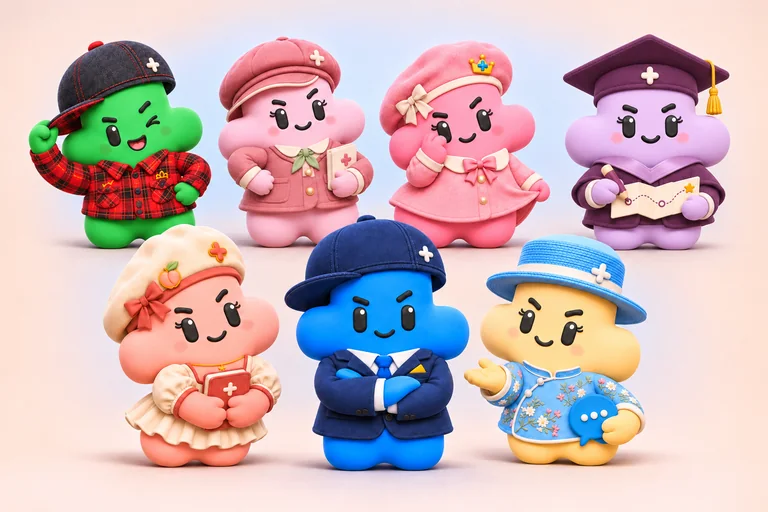
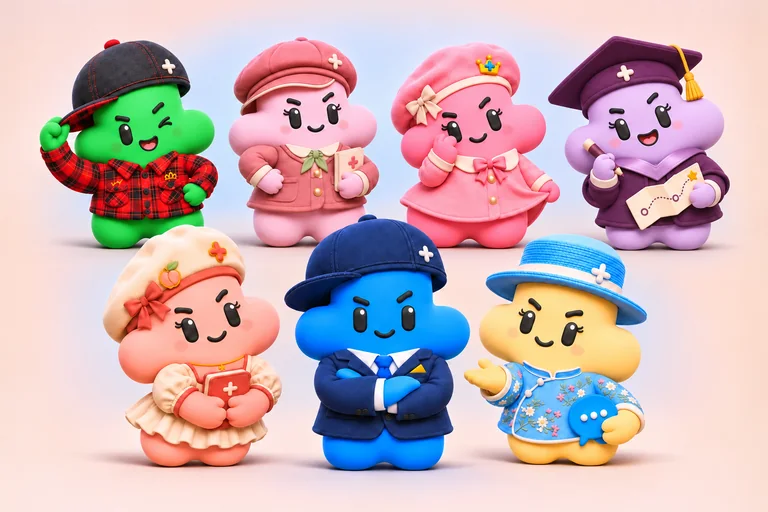
Polish Binh An profile and Writing trial layout

diff --git a/index.html b/index.html
@@ -36,13 +36,13 @@
 <link rel="stylesheet" href="assets/modern/family-20261102.css?v=2-photo">
 <link rel="stylesheet" href="assets/speaking/profiles.css?v=20261103">
 <link rel="stylesheet" href="assets/speaking/schedule.css?v=20261103">
-<link rel="stylesheet" href="assets/layout-family.css?v=20261106">
+<link rel="stylesheet" href="assets/layout-family.css?v=20261106-recordings">
 <link rel="stylesheet" href="assets/layout-teachers.css?v=20261103">
 <link rel="stylesheet" href="assets/layout-schedule.css?v=20261103">
 <link rel="stylesheet" href="assets/unify-speaking.css?v=20261103">
 <link rel="stylesheet" href="assets/add-speak-benefits.css?v=20261103">
 <link rel="stylesheet" href="assets/speaking-finish.css?v=20261103">
-<link rel="stylesheet" href="assets/bee-card-colors.css?v=20261106">
+<link rel="stylesheet" href="assets/bee-card-colors.css?v=20261106-binh-an-layout">
 <link rel="stylesheet" href="assets/hof-unified.css?v=20261103-gold">
 <link rel="stylesheet" href="assets/faq-registration.css?v=20261103">
 </head>
@@ -86,9 +86,9 @@
 <h2 class="family-kicker">Đại gia đình Bee</h2>
 <div class="family-stage">
 <div id="beeWorld" class="family-photo-world">
-  <figure class="family-photo-frame"><img class="family-portrait" src="assets/modern/family/portrait-seven.webp" srcset="assets/modern/family/portrait-seven-768.webp 768w, assets/modern/family/portrait-seven.webp 1536w" sizes="(max-width: 670px) calc(100vw - 40px), 632px" width="1536" height="1024" fetchpriority="high" decoding="async" alt="Bảy thành viên đại gia đình Bee gồm Gia Khang, Cici, Tuệ Nhi, Pu, Hồ Bách, Kem và Bình An. Cô Bình An đội mũ tốt nghiệp màu tím ở góc trên bên phải."></figure>
-  <svg class="family-leaders" viewBox="0 0 768 512" aria-hidden="true"><path class="family-key-khang" d="M -30 190 H 13 L 49 143" vector-effect="non-scaling-stroke"/><path class="family-key-cici" d="M -30 67 H 17 L 54 23 H 228 L 247 58" vector-effect="non-scaling-stroke"/><path class="family-key-nhi" d="M 798 218 H 754 L 731 253 H 564 L 532 221" vector-effect="non-scaling-stroke"/><path class="family-key-pu" d="M -30 404 H 70 L 122 350" vector-effect="non-scaling-stroke"/><path class="family-key-bach" d="M 798 450 H 735 L 707 483 H 472 L 432 452" vector-effect="non-scaling-stroke"/><path class="family-key-quynh" d="M 798 334 H 705 L 632 350" vector-effect="non-scaling-stroke"/><path class="family-key-binh-an" d="M 798 91 H 750 L 712 79" vector-effect="non-scaling-stroke"/></svg>
-  <div class="family-pins" aria-hidden="true"><span class="family-pin family-key-khang" style="--pin-x:6.38%;--pin-y:27.93%">1</span><span class="family-pin family-key-cici" style="--pin-x:32.16%;--pin-y:11.33%">2</span><span class="family-pin family-key-nhi" style="--pin-x:69.27%;--pin-y:43.16%">3</span><span class="family-pin family-key-pu" style="--pin-x:15.89%;--pin-y:68.36%">4</span><span class="family-pin family-key-bach" style="--pin-x:56.25%;--pin-y:88.28%">5</span><span class="family-pin family-key-quynh" style="--pin-x:82.29%;--pin-y:68.36%">6</span><span class="family-pin family-key-binh-an" style="--pin-x:92.71%;--pin-y:15.43%">7</span></div>
+  <figure class="family-photo-frame"><img class="family-portrait" src="assets/modern/family/portrait-seven.webp?v=pose3" srcset="assets/modern/family/portrait-seven-768.webp?v=pose3 768w, assets/modern/family/portrait-seven.webp?v=pose3 1536w" sizes="(max-width: 670px) calc(100vw - 40px), 632px" width="1536" height="1024" fetchpriority="high" decoding="async" alt="Bảy thành viên đại gia đình Bee gồm Gia Khang, Cici, Tuệ Nhi, Pu, Hồ Bách, Kem và Bình An. Cô Bình An đội mũ tốt nghiệp màu tím, cười và giơ bút ở góc trên bên phải."></figure>
+  <svg class="family-leaders" viewBox="0 0 768 512" aria-hidden="true"><path class="family-key-khang" d="M -30 190 H 13 L 60 143" vector-effect="non-scaling-stroke"/><path class="family-key-cici" d="M -30 67 H 17 L 54 23 H 228 L 260 58" vector-effect="non-scaling-stroke"/><path class="family-key-nhi" d="M 798 218 H 754 L 731 253 H 564 L 542 221" vector-effect="non-scaling-stroke"/><path class="family-key-pu" d="M -30 404 H 70 L 122 350" vector-effect="non-scaling-stroke"/><path class="family-key-bach" d="M 798 450 H 735 L 707 483 H 472 L 432 452" vector-effect="non-scaling-stroke"/><path class="family-key-quynh" d="M 798 334 H 705 L 632 350" vector-effect="non-scaling-stroke"/><path class="family-key-binh-an" d="M 798 91 H 750 L 711 80" vector-effect="non-scaling-stroke"/></svg>
+  <div class="family-pins" aria-hidden="true"><span class="family-pin family-key-khang" style="--pin-x:7.81%;--pin-y:27.93%">1</span><span class="family-pin family-key-cici" style="--pin-x:33.85%;--pin-y:11.33%">2</span><span class="family-pin family-key-nhi" style="--pin-x:70.57%;--pin-y:43.16%">3</span><span class="family-pin family-key-pu" style="--pin-x:15.89%;--pin-y:68.36%">4</span><span class="family-pin family-key-bach" style="--pin-x:56.25%;--pin-y:88.28%">5</span><span class="family-pin family-key-quynh" style="--pin-x:82.29%;--pin-y:68.36%">6</span><span class="family-pin family-key-binh-an" style="--pin-x:92.58%;--pin-y:15.63%">7</span></div>
 </div>
 <div class="family-roster" aria-label="Chú thích thành viên đại gia đình Bee">
 <a class="family-member family-key-khang" href="#teacher-khang"><span class="family-number" aria-hidden="true">1</span><span><strong>Gia Khang</strong><small><span>Overall 8.5</span><span>Writing 8.0</span></small></span></a>
@@ -310,7 +310,7 @@ Xem trực tiếp các bản ghi hình lớp học trước khi đăng ký.
 
 <div class="teacher-grid">
 
-     <div class="teacher-recording-card" data-bee-recording="bach" data-bee-guide-side="right">
+     <div class="teacher-recording-card" data-recording-skill="writing" data-bee-recording="bach" data-bee-guide-side="right">
         <div class="recording-mascot-v4"><img src="assets/modern/bee-bach.webp" alt="Bee Bách · Hồ Bách" loading="lazy"></div>
         <h3>Hồ Bách</h3>
         <p class="aim">Master 7.5 - 8.0+</p>
@@ -320,7 +320,7 @@ Xem trực tiếp các bản ghi hình lớp học trước khi đăng ký.
         </button>
     </div>
 
-    <div class="teacher-recording-card" data-bee-recording="nhi" data-bee-guide-side="left">
+    <div class="teacher-recording-card" data-recording-skill="writing" data-bee-recording="nhi" data-bee-guide-side="left">
         <div class="recording-mascot-v4"><img src="assets/modern/bee-nhi.webp" alt="Bee Nhi · Tuệ Nhi" loading="lazy"></div>
         <h3>Tuệ Nhi</h3>
         <p class="aim">Writing 5.0 → 7.0+</p>
@@ -330,7 +330,7 @@ Xem trực tiếp các bản ghi hình lớp học trước khi đăng ký.
         </button>
     </div>
 
- <div class="teacher-recording-card" data-bee-recording="kane" data-bee-guide-side="left">
+    <div class="teacher-recording-card" data-recording-skill="writing" data-bee-recording="kane" data-bee-guide-side="left">
         <div class="recording-mascot-v4"><img src="assets/modern/bee-khang.webp" alt="Bee Khang · Gia Khang" loading="lazy"></div>
         <h3>Gia Khang</h3>
         <p class="aim">Writing 5.0 → 7.0+</p>
@@ -342,24 +342,25 @@ Xem trực tiếp các bản ghi hình lớp học trước khi đăng ký.
 
 
 
-    <div class="teacher-recording-card recording-pending recording-cici">
+    <div class="teacher-recording-card recording-pending recording-binh-an" data-recording-skill="writing">
+        <div class="recording-mascot-v4"><img src="assets/modern/family/binh-an.webp" alt="" loading="lazy" decoding="async" width="512" height="512"></div>
+        <h3>Bình An</h3>
+        <p class="aim">Writing 5.0–5.5 → 7.0+</p>
+        <button type="button" aria-haspopup="dialog" onclick="document.getElementById('recordingPendingTitle').textContent = 'Lớp học của cô Bình An'; document.getElementById('recordingPending').showModal()">Xem lớp học thực tế</button>
+    </div>
+
+    <div class="teacher-recording-card recording-pending recording-cici" data-recording-skill="speaking">
         <div class="recording-mascot-v4"><img src="assets/modern/family/cici.webp" alt="" loading="lazy" decoding="async"></div>
         <h3>Cici</h3>
         <p class="aim">Speaking 5.0 → 6.5–7.0+</p>
         <button type="button" aria-haspopup="dialog" onclick="document.getElementById('recordingPendingTitle').textContent = 'Lớp học của Cici'; document.getElementById('recordingPending').showModal()">Xem lớp học thực tế</button>
     </div>
 
-    <div class="teacher-recording-card recording-pending recording-kem">
+    <div class="teacher-recording-card recording-pending recording-kem" data-recording-skill="speaking">
         <div class="recording-mascot-v4"><img src="assets/modern/family/quynh-kem.webp" alt="" loading="lazy" decoding="async"></div>
         <h3>Kem</h3>
         <p class="aim">Speaking 5.0 → 6.5–7.0+</p>
         <button type="button" aria-haspopup="dialog" onclick="document.getElementById('recordingPendingTitle').textContent = 'Lớp học của Kem'; document.getElementById('recordingPending').showModal()">Xem lớp học thực tế</button>
-    </div>
-    <div class="teacher-recording-card recording-pending recording-binh-an">
-        <div class="recording-mascot-v4"><img src="assets/modern/family/binh-an.webp" alt="" loading="lazy" decoding="async" width="512" height="512"></div>
-        <h3>Bình An</h3>
-        <p class="aim">IELTS Writing</p>
-        <button type="button" aria-haspopup="dialog" onclick="document.getElementById('recordingPendingTitle').textContent = 'Lớp học của cô Bình An'; document.getElementById('recordingPending').showModal()">Xem lớp học thực tế</button>
     </div>
 </div>
 
@@ -505,11 +506,16 @@ Xem trực tiếp các bản ghi hình lớp học trước khi đăng ký.
                         <p class="lecturer-full-name">Đỗ Bình An</p>
                         <p class="lecturer-score">Overall 8.0 | Writing 8.0</p>
                         <p class="lecturer-desc">Cô Bình An tốt nghiệp thủ khoa chuyên ngành Luật Kinh doanh tại Đại học Kinh tế Quốc dân và có 6 năm kinh nghiệm dạy tiếng Anh và IELTS. Hai lần tự học đạt IELTS Overall 8.0, cô tập trung giúp học viên hiểu vì sao bài viết mắc lỗi và xây dựng cách luyện tập phù hợp với trình độ.</p>
+                        <div class="social-links">
+                            <a href="https://www.facebook.com/binhansongbinhan" target="_blank" rel="noopener noreferrer" aria-label="Facebook của cô Bình An"><i class="fa-brands fa-facebook-f" aria-hidden="true"></i></a>
+                            <a href="https://zalo.me/0825696699" class="contact-phone" target="_blank" rel="noopener noreferrer" aria-label="Zalo của cô Bình An"><i class="fa-solid fa-comment" aria-hidden="true"></i> Zalo</a>
+                        </div>
                         <div class="lecturer-conversion">
-                            <span class="lecturer-slot-note" data-slot-teacher="binh-an" aria-live="polite">Đang kiểm tra lịch lớp của Bình An…</span>
+                            <span class="lecturer-slot-note" data-slot-teacher="binh-an" data-slot-empty="Lịch lớp Writing đang được cập nhật" aria-live="polite">Lịch lớp Writing đang được cập nhật</span>
                             <a href="#schedule" class="lecturer-conversion-link" onclick="showTeacherSchedule('binh-an', 'writing')">Xem lịch còn slot của Bình An <i class="fa-solid fa-arrow-right" aria-hidden="true"></i></a>
                         </div>
                     </div>
+                    <div class="lecturer-video lecturer-video-empty" aria-hidden="true"></div>
                 </article>
             </div>
             </div>
@@ -1435,7 +1441,7 @@ function toggleContact(){
                 tb.innerHTML = '<tr><td colspan="6" style="text-align:center; color:red;">Tạm thời không thể tải lịch học. Xin vui lòng liên hệ Fanpage.</td></tr>';
             });
             document.querySelectorAll('[data-slot-teacher]').forEach(note => {
-                note.textContent = 'Chưa tải được số slot · Hỏi team để kiểm tra trực tiếp';
+                note.textContent = note.dataset.slotEmpty || 'Chưa tải được số slot · Hỏi team để kiểm tra trực tiếp';
             });
         }
     }
@@ -2883,7 +2889,7 @@ function updateLecturerSlotNotes(rows) {
                 ? `Các lớp đang mở còn ${summary.total} slot · Xem lịch để chọn ca phù hợp`
                 : summary.classes > 0
                     ? `Slot thay đổi theo từng ca · Xem lịch đang mở của ${teacherFilterLabel(key)}`
-                    : `Chưa có lớp đang tuyển của ${teacherFilterLabel(key)} · Hỏi team về đợt tiếp theo`;
+                    : note.dataset.slotEmpty || `Chưa có lớp đang tuyển của ${teacherFilterLabel(key)} · Hỏi team về đợt tiếp theo`;
     });
 
     const activeState = getBeeGuideState(beeGuideCurrentState);
@@ -3069,4 +3075,4 @@ document.addEventListener("DOMContentLoaded", initBeeGuide);
 
 
 
-<script src="assets/modern/tiktok-stats-v8.js?v=8"></script><script src="assets/modern/v8.js?v=20261102-family1"></script><script type="module" src="assets/modern/family-photo.js?v=20261106"></script></body></html>
+<script src="assets/modern/tiktok-stats-v8.js?v=8"></script><script src="assets/modern/v8.js?v=20261102-family1"></script><script type="module" src="assets/modern/family-photo.js?v=20261106-pose3"></script></body></html>

diff --git a/assets/layout-family.css b/assets/layout-family.css
@@ -98,11 +98,32 @@
   }
   .family-pins { inset: 3px; }
 }
-@media (min-width: 821px) {
-  #recordings .teacher-grid { grid-template-columns: repeat(3, minmax(0, 1fr)); }
+@media (min-width: 601px) and (max-width: 999px) {
+  #recordings .teacher-grid { grid-template-columns: repeat(2, minmax(0, 1fr)); }
 }
 @media (min-width: 601px) and (max-width: 820px) {
-  #recordings .teacher-grid { grid-template-columns: repeat(2, minmax(0, 1fr)); }
+  #recordings .teacher-recording-card { display: flex; text-align: center; }
+  #recordings .teacher-recording-card h3 { align-self: auto; }
+  #recordings .teacher-recording-card .aim { align-self: auto; margin-bottom: 16px; }
+  #recordings .teacher-recording-card button { margin-top: auto; }
+}
+@media (min-width: 1000px) {
+  #recordings .teacher-grid { grid-template-columns: repeat(8, minmax(0, 1fr)); }
+  #recordings .teacher-recording-card { grid-column: span 2; padding-inline: 16px; }
+  #recordings [data-recording-skill="writing"] + [data-recording-skill="speaking"] {
+    grid-column: 3 / span 2;
+  }
+}
+@media (max-width: 380px) {
+  #recordings .teacher-recording-card {
+    grid-template-columns: 76px minmax(0, 1fr);
+    column-gap: 12px;
+    padding-inline: 16px;
+  }
+  #recordings .recording-mascot-v4 { width: 76px; }
+  #recordings .recording-mascot-v4::before { width: 72px; height: 72px; }
+  #recordings .recording-mascot-v4 img { width: 84px; height: 84px; }
+  #recordings .teacher-recording-card .aim { font-size: 14px; }
 }
 #recordings .recording-pending button { background: var(--quality-trial-blue); color: var(--white); }
 .recording-pending-dialog { width: min(460px, calc(100% - 32px)); }

diff --git a/assets/bee-card-colors.css b/assets/bee-card-colors.css
@@ -50,9 +50,6 @@
 #teacher-binh-an .lecturer-badge { font-family: inherit; }
 #teacher-binh-an .lecturer-full-name { margin: 0 0 8px; }
 #teacher-binh-an .portrait-frame img { object-position: center 59%; }
-@media (min-width: 1101px) {
-  #lecturers #teacher-binh-an { grid-template-columns: minmax(0, 1fr) minmax(0, 1.35fr); }
-}
 #recordings .teacher-recording-card .recording-mascot-v4::before {
   background: radial-gradient(circle at 35% 30%, var(--bee-secondary, var(--white)), var(--bee-halo));
   border: 1px solid var(--bee-edge);

diff --git a/assets/modern/family-photo.js b/assets/modern/family-photo.js
@@ -9,7 +9,7 @@
  window.beeWorld={
   nhiAnchor(){
    const r=image.getBoundingClientRect();
-   return {x:r.left+r.width*.60,y:r.top+r.height*.25,size:r.height*.32};
+   return {x:r.left+r.width*.62,y:r.top+r.height*.25,size:r.height*.32};
   },
   // A photograph stays complete when its Nhi guide appears elsewhere on the page.
   depart(){host.dataset.nhiDeparted='true';},
